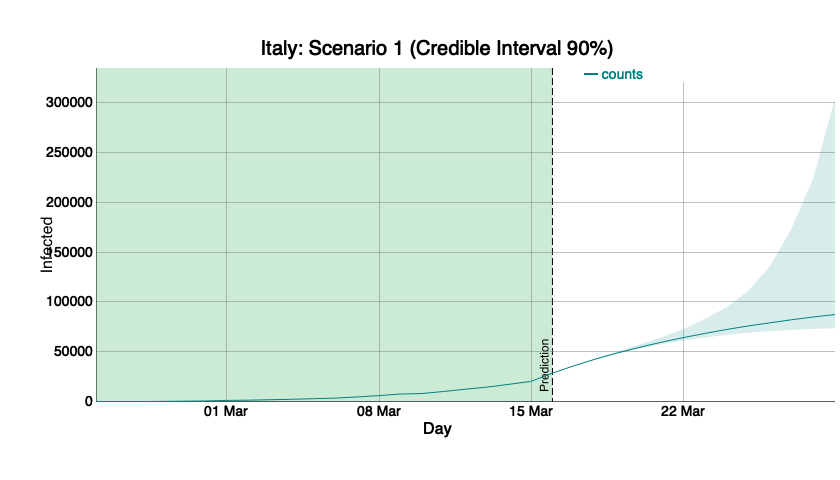
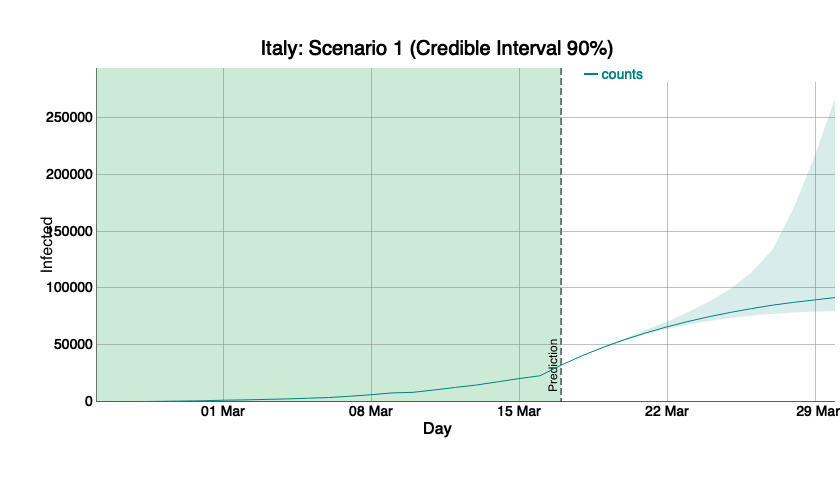
Add home page, navigation and theme

diff --git a/draft_analysis_Veneto_new.md b/draft_analysis_Veneto_new.md
@@ -2,7 +2,7 @@ COVID19 - Forecast and predictions using a time dependent SEIR model -
 Veneto Region
 ================
 Paolo Girardi
-15 Marzo, 2020
+17 Marzo, 2020
 
 <a rel="license" href="http://creativecommons.org/licenses/by-nc/4.0/"><img alt="Creative Commons License" style="border-width:0" src="https://i.creativecommons.org/l/by-nc/4.0/88x31.png" /></a><br />This
 work is licensed under a
@@ -68,12 +68,6 @@ and load them.
     ## 
     ##     as.Date, as.Date.numeric
 
-    ## Registered S3 methods overwritten by 'ggplot2':
-    ##   method         from 
-    ##   [.quosures     rlang
-    ##   c.quosures     rlang
-    ##   print.quosures rlang
-
     ## Loading required package: BoomSpikeSlab
 
     ## Loading required package: Boom
@@ -111,7 +105,7 @@ Download the data from
 
 ## Load dataset
 
-    ## [1] 21
+    ## [1] 22
 
 Several outcomes can be potentially monitored, that is
 
@@ -232,7 +226,7 @@ beta (the slope) and forcing its value to be greater than
 ![](draft_analysis_Veneto_new_files/figure-gfm/R0%20forecast-1.png)<!-- -->
 
 R0 passes from a value of 5.64 in the initial phase to an estimated
-value of 1.23 at the ending of the 14-days forecast.
+value of 1.32 at the ending of the 14-days forecast.
 
 We want to make a short term forecast (14 days) with 3 scenario, based
 on the number of exposed people:
@@ -265,14 +259,14 @@ the previous estimation
 I0<-dat_csv$totale_attualmente_positivi[dim(dat_csv)[1]]; I0
 ```
 
-    ## [1] 1989
+    ## [1] 2274
 
 ``` r
 # initial number of recovered
 R0<-dat_csv$dimessi_guariti[dim(dat_csv)[1]]; R0
 ```
 
-    ## [1] 120
+    ## [1] 130
 
 ``` r
 # Veneto Region population
@@ -311,16 +305,16 @@ model1 <- bsts(log(beta_vec),
                niter = 1000)
 ```
 
-    ## =-=-=-=-= Iteration 0 Sun Mar 15 23:58:29 2020 =-=-=-=-=
-    ## =-=-=-=-= Iteration 100 Sun Mar 15 23:58:29 2020 =-=-=-=-=
-    ## =-=-=-=-= Iteration 200 Sun Mar 15 23:58:29 2020 =-=-=-=-=
-    ## =-=-=-=-= Iteration 300 Sun Mar 15 23:58:29 2020 =-=-=-=-=
-    ## =-=-=-=-= Iteration 400 Sun Mar 15 23:58:29 2020 =-=-=-=-=
-    ## =-=-=-=-= Iteration 500 Sun Mar 15 23:58:29 2020 =-=-=-=-=
-    ## =-=-=-=-= Iteration 600 Sun Mar 15 23:58:29 2020 =-=-=-=-=
-    ## =-=-=-=-= Iteration 700 Sun Mar 15 23:58:29 2020 =-=-=-=-=
-    ## =-=-=-=-= Iteration 800 Sun Mar 15 23:58:29 2020 =-=-=-=-=
-    ## =-=-=-=-= Iteration 900 Sun Mar 15 23:58:29 2020 =-=-=-=-=
+    ## =-=-=-=-= Iteration 0 Tue Mar 17 12:02:32 2020 =-=-=-=-=
+    ## =-=-=-=-= Iteration 100 Tue Mar 17 12:02:32 2020 =-=-=-=-=
+    ## =-=-=-=-= Iteration 200 Tue Mar 17 12:02:32 2020 =-=-=-=-=
+    ## =-=-=-=-= Iteration 300 Tue Mar 17 12:02:32 2020 =-=-=-=-=
+    ## =-=-=-=-= Iteration 400 Tue Mar 17 12:02:32 2020 =-=-=-=-=
+    ## =-=-=-=-= Iteration 500 Tue Mar 17 12:02:32 2020 =-=-=-=-=
+    ## =-=-=-=-= Iteration 600 Tue Mar 17 12:02:32 2020 =-=-=-=-=
+    ## =-=-=-=-= Iteration 700 Tue Mar 17 12:02:32 2020 =-=-=-=-=
+    ## =-=-=-=-= Iteration 800 Tue Mar 17 12:02:32 2020 =-=-=-=-=
+    ## =-=-=-=-= Iteration 900 Tue Mar 17 12:02:32 2020 =-=-=-=-=
 
 ``` r
 par(mfrow = c(1,1))
@@ -440,9 +434,9 @@ p
 ![](draft_analysis_Veneto_new_files/figure-gfm/scenario%20plot%20-3.png)<!-- -->
 
 The 3 scenarios show different numbers. If we consider the second
-scenario, at the end of the 2 weeks (2020-03-29) the number of infected
-is (4856.4957641).
+scenario, at the end of the 2 weeks (2020-03-30) the number of infected
+is (4688.784403).
 
 In the next plot the cumulative number of infected.  
-At the end of the 2 weeks (2020-03-29) the total number of COVID19 cases
-is expected to be (8652.6221879).
+At the end of the 2 weeks (2020-03-30) the total number of COVID19 cases
+is expected to be (8744.1993965).

diff --git a/draft_analysis_Italy_new.md b/draft_analysis_Italy_new.md
@@ -1,7 +1,7 @@
 COVID19 - Forecast and predictions using a time dependent SEIR model
 ================
 Paolo Girardi
-15 Marzo, 2020
+17 Marzo, 2020
 
 <a rel="license" href="http://creativecommons.org/licenses/by-nc/4.0/"><img alt="Creative Commons License" style="border-width:0" src="https://i.creativecommons.org/l/by-nc/4.0/88x31.png" /></a><br />This
 work is licensed under a
@@ -57,12 +57,6 @@ and load them.
     ## 
     ##     as.Date, as.Date.numeric
 
-    ## Registered S3 methods overwritten by 'ggplot2':
-    ##   method         from 
-    ##   [.quosures     rlang
-    ##   c.quosures     rlang
-    ##   print.quosures rlang
-
     ## Loading required package: BoomSpikeSlab
 
     ## Loading required package: Boom
@@ -100,7 +94,7 @@ Download the data from
 
 ## Load dataset
 
-    ## [1] 21
+    ## [1] 22
 
 Several outcomes can be potentially monitored, that is
 
@@ -219,7 +213,7 @@ beta (the slope) and forcing its value to be greater than
 ![](draft_analysis_Italy_new_files/figure-gfm/R0%20forecast-1.png)<!-- -->
 
 R0 passes from a value of 4.57 in the initial phase to an estimated
-value of 1.29 at the ending of the 14-days forecast.
+value of 1.22 at the ending of the 14-days forecast.
 
 We want to make a short term forecast (14 days) with 3 scenario, based
 on the number of exposed people:
@@ -252,14 +246,14 @@ the previous estimation
 I0<-dat_csv$totale_attualmente_positivi[dim(dat_csv)[1]]; I0
 ```
 
-    ## [1] 20603
+    ## [1] 23073
 
 ``` r
 # initial number of recovered
 R0<-dat_csv$dimessi_guariti[dim(dat_csv)[1]]; R0
 ```
 
-    ## [1] 2335
+    ## [1] 2749
 
 ``` r
 # italian poulation
@@ -299,16 +293,16 @@ model1 <- bsts(log(beta_vec),
                niter = 1000)
 ```
 
-    ## =-=-=-=-= Iteration 0 Sun Mar 15 23:52:57 2020 =-=-=-=-=
-    ## =-=-=-=-= Iteration 100 Sun Mar 15 23:52:57 2020 =-=-=-=-=
-    ## =-=-=-=-= Iteration 200 Sun Mar 15 23:52:57 2020 =-=-=-=-=
-    ## =-=-=-=-= Iteration 300 Sun Mar 15 23:52:57 2020 =-=-=-=-=
-    ## =-=-=-=-= Iteration 400 Sun Mar 15 23:52:57 2020 =-=-=-=-=
-    ## =-=-=-=-= Iteration 500 Sun Mar 15 23:52:57 2020 =-=-=-=-=
-    ## =-=-=-=-= Iteration 600 Sun Mar 15 23:52:58 2020 =-=-=-=-=
-    ## =-=-=-=-= Iteration 700 Sun Mar 15 23:52:58 2020 =-=-=-=-=
-    ## =-=-=-=-= Iteration 800 Sun Mar 15 23:52:58 2020 =-=-=-=-=
-    ## =-=-=-=-= Iteration 900 Sun Mar 15 23:52:58 2020 =-=-=-=-=
+    ## =-=-=-=-= Iteration 0 Tue Mar 17 12:00:08 2020 =-=-=-=-=
+    ## =-=-=-=-= Iteration 100 Tue Mar 17 12:00:08 2020 =-=-=-=-=
+    ## =-=-=-=-= Iteration 200 Tue Mar 17 12:00:08 2020 =-=-=-=-=
+    ## =-=-=-=-= Iteration 300 Tue Mar 17 12:00:08 2020 =-=-=-=-=
+    ## =-=-=-=-= Iteration 400 Tue Mar 17 12:00:08 2020 =-=-=-=-=
+    ## =-=-=-=-= Iteration 500 Tue Mar 17 12:00:08 2020 =-=-=-=-=
+    ## =-=-=-=-= Iteration 600 Tue Mar 17 12:00:08 2020 =-=-=-=-=
+    ## =-=-=-=-= Iteration 700 Tue Mar 17 12:00:08 2020 =-=-=-=-=
+    ## =-=-=-=-= Iteration 800 Tue Mar 17 12:00:08 2020 =-=-=-=-=
+    ## =-=-=-=-= Iteration 900 Tue Mar 17 12:00:08 2020 =-=-=-=-=
 
 ``` r
 par(mfrow = c(1,1))
@@ -430,9 +424,9 @@ p
 ![](draft_analysis_Italy_new_files/figure-gfm/scenario%20plot%20-3.png)<!-- -->
 
 The 3 scenarios show different numbers. If we consider the second
-scenario, at the end of the 2 weeks (2020-03-29) the number of infected
-is (5.068197310^{4}).
+scenario, at the end of the 2 weeks (2020-03-30) the number of infected
+is (5.243261210^{4}).
 
 In the next plot the cumulative number of infected.  
-At the end of the 2 weeks (2020-03-29) the total number of COVID19 cases
-is expected to be (9.142799910^{4}).
+At the end of the 2 weeks (2020-03-30) the total number of COVID19 cases
+is expected to be (9.677816810^{4}).
